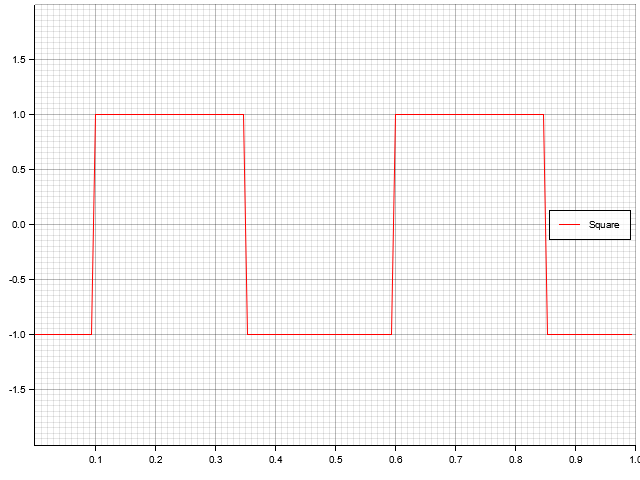
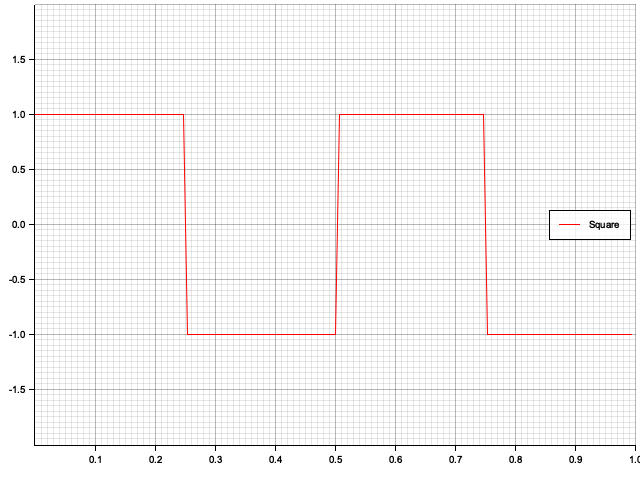
refactor macros, finish square implementation and docs

diff --git a/examples/plot.rs b/examples/plot.rs
@@ -3,63 +3,62 @@ use std::path::Path;
 use plotters::prelude::*;
 use wavegen::{sawtooth, sine, Waveform, square};
 
+macro_rules! draw {
+    ($sample_rate:expr, $path:expr, $label:expr, $waveform:expr) => {
+        draw_internal(
+            $path,
+            $label,
+            $waveform
+            .into_iter()
+            .enumerate()
+            .map(|(i, x)| (i as f32 / $sample_rate as f32, x))
+            .take($sample_rate as usize)
+        )
+    };
+}
+
 fn main() -> Result<(), Box<dyn std::error::Error>> {
     let sample_rate = 150.0;
 
-    draw(
+    draw!(
+        sample_rate,
         "sine.png",
         "Sine",
-        Waveform::<f32>::with_components(sample_rate, vec![sine!(1.0)])
-            .into_iter()
-            .enumerate()
-            .map(|(i, x)| (i as f32 / sample_rate as f32, x))
-            .take(sample_rate as usize),
+        Waveform::<f32>::with_components(sample_rate, vec![sine![1.0]])
     )?;
 
-    draw(
+    draw!(
+        sample_rate,
         "sine_double.png",
         "Sines",
         Waveform::<f32>::with_components(sample_rate, vec![sine!(1.0), sine!(1.0, 1.0, 0.25)])
-            .into_iter()
-            .enumerate()
-            .map(|(i, x)| (i as f32 / sample_rate as f32, x))
-            .take(sample_rate as usize),
     )?;
 
-    draw(
+    draw!(
+        sample_rate,
         "sawtooth.png",
         "Sawtooth",
         Waveform::<f32>::with_components(sample_rate, vec![sawtooth!(2, 1, 0.0)])
-            .into_iter()
-            .enumerate()
-            .map(|(i, x)| (i as f32 / sample_rate as f32, x))
-            .take(sample_rate as usize),
     )?;
 
-    draw(
+    draw!(
+        sample_rate,
         "sawtooth_sinesised.png",
         "Sawtooth with sine",
-        Waveform::<f32>::with_components(sample_rate, vec![sawtooth!(2, 1, 0.0), sine!(50, 0.1)])
-            .into_iter()
-            .enumerate()
-            .map(|(i, x)| (i as f32 / sample_rate as f32, x))
-            .take(sample_rate as usize),
+        Waveform::<f32>::with_components(sample_rate, vec![sawtooth!(2, 1, 0.0), sine!(frequency = 50, amplitude = 0.1)])
     )?;
 
-    draw(
+    draw!(
+        sample_rate,
         "square.png",
         "Square",
-        Waveform::<f32>::with_components(sample_rate, vec![square!(2, 1, 0, 0.5)])
-            .into_iter()
-            .enumerate()
-            .map(|(i, x)| (i as f32 / sample_rate as f32, x))
-            .take(sample_rate as usize),
+        Waveform::<f32>::with_components(sample_rate, vec![square!(2, 1, 0)])
     )?;
 
     Ok(())
 }
 
-fn draw<I: IntoIterator<Item = (f32, f32)>, P: AsRef<Path>>(
+fn draw_internal<I: IntoIterator<Item = (f32, f32)>, P: AsRef<Path>>(
     path: P,
     label: &str,
     iter: I,

diff --git a/src/periodic_functions/square.rs b/src/periodic_functions/square.rs
@@ -3,13 +3,62 @@ use libm::{pow, floor};
 
 use crate::PeriodicFunction;
 
-pub fn _square(frequency: f64, amplitude: f64, phase: f64, duty_cycle: f64) -> PeriodicFunction {
+pub fn _square(frequency: f64, amplitude: f64, phase: f64) -> PeriodicFunction {
+    // TODO: implement duty cycle control
     Box::new(move |t| amplitude * pow(-1.0, floor((2.0 * (t - phase)) / (1.0 / frequency))))
 }
 
+/// Builder macro for Square [PeriodicFunction].
+///
+/// Takes up to 3 arguments - frequency {amplitude, {phase}}
+///
+/// | argument | unit | notes |
+/// | -------- | ---- | ----- |
+/// | frequency | Hz | Frequecy of the periodic function. Also: 1 / period |
+/// | amplitude | *arbitrary* | The amplitude of the function in 0-peak notation. |
+/// | phase | *periods* | The phase shift of the function. Value of 1 means full shift around.
 #[macro_export]
 macro_rules! square {
-    ($frequency:expr, $amplitude:expr, $phase:expr, $duty_cycle:expr) => {
-        $crate::periodic_functions::square::_square($frequency as f64, $amplitude as f64, $phase as f64, $duty_cycle as f64)
+    (frequency = $frequency:expr) => {
+        square!($frequency)
     };
+    (frequency = $frequency:expr, amplitude = $amplitude:expr) => {
+        square!($frequency, $amplitude)
+    };
+    (frequency = $frequency:expr, amplitude = $amplitude:expr, phase = $phase:expr) => {
+        square!($frequency, $amplitude, 0.0)
+    };
+    ($frequency:expr) => {
+        square!($frequency, 1.0, 0.0)
+    };
+    ($frequency:expr, $amplitude:expr) => {
+        square!($frequency, $amplitude, 0.0)
+    };
+    ($frequency:expr, $amplitude:expr, $phase:expr) => {
+        $crate::periodic_functions::square::_square(
+            $frequency as f64,
+            $amplitude as f64,
+            $phase as f64,
+        )
+    };
+}
+
+#[cfg(test)]
+mod tests {
+    use float_cmp::approx_eq;
+
+    const EPS: f64 = 1e-3;
+
+    #[test]
+    fn default_square_has_amplitude_of_one() {
+        let square = square!(1);
+
+        for x in [0.0, 0.1, 0.2, 0.3, 0.4] {
+            assert!(approx_eq!(f64, square(x), 1.0, epsilon=EPS))
+        }
+
+        for x in [0.5, 0.6, 0.7, 0.8, 0.9] {
+            assert!(approx_eq!(f64, square(x), -1.0, epsilon=EPS))
+        }
+    }
 }

diff --git a/src/periodic_functions/sine.rs b/src/periodic_functions/sine.rs
@@ -32,7 +32,7 @@ pub fn _sine(frequency: f64, amplitude: f64, phase: f64) -> PeriodicFunction {
 /// ```
 /// use wavegen::sine;
 ///
-/// let sine = sine!(50, 20);
+/// let sine = sine!(50, amplitude = 20);
 /// ```
 ///
 /// 50 Hz sine of amplitude 20 and phase shift of half a turn
@@ -44,6 +44,15 @@ pub fn _sine(frequency: f64, amplitude: f64, phase: f64) -> PeriodicFunction {
 /// ```
 #[macro_export]
 macro_rules! sine {
+    (frequency = $frequency:expr) => {
+        sine!($frequency)
+    };
+    (frequency = $frequency:expr, amplitude = $amplitude:expr) => {
+        sine!($frequency, $amplitude)
+    };
+    (frequency = $frequency:expr, amplitude = $amplitude:expr, phase = $phase:expr) => {
+        sine!(sine!($frequency, $amplitude, $phase))
+    };
     ($frequency:expr) => {
         sine!($frequency, 1.0, 0.0)
     };

diff --git a/src/lib.rs b/src/lib.rs
@@ -18,6 +18,21 @@
 //!
 //! Look into macros section for a complete list of defined periodic functions and their constructors.
 //! 
+//! # Periodic function macros
+//! The macros for building predefined [PeriodicFunction]s generally have a form of:
+//! ```no_run
+//! function!(frequency, amplitude, phase)
+//! ```
+//! 
+//! They come in an annotated and non-annotated form, so for exmaple a Sine function can be expressed in both ways:
+//! ```no_run
+//! let sine = sine!(100, 20, 0.25);
+//! 
+//! let sine = sine!(frequency = 100, amplitude = 20, phase = 0.25)
+//! ```
+//! 
+//! Refer to Macros section for more info.
+//! 
 //! # Custom periodic functions
 //! Supported, of course. Just define your custom function as `Box<Fn(f64) -> f64>` and use it with [Waveform].
 //! 

diff --git a/src/periodic_functions/sawtooth.rs b/src/periodic_functions/sawtooth.rs
@@ -26,7 +26,16 @@ macro_rules! sawtooth {
     ($frequency:expr) => {
         sawtooth!($frequency, 1.0, 0.0)
     };
+    (frequency = $frequency:expr) => {
+        sawtooth!($frequency)
+    };
     ($frequency:expr, $amplitude:expr) => {
+        sawtooth!($frequency, $amplitude, 0.0)
+    };
+    (frequency = $frequency:expr, amplitude = $amplitude:expr) => {
+        sawtooth!($frequency, $amplitude)
+    };
+    (frequency = $frequency:expr, amplitude = $amplitude:expr, phase = $phase:expr) => {
         sawtooth!($frequency, $amplitude, 0.0)
     };
     ($frequency:expr, $amplitude:expr, $phase:expr) => {
